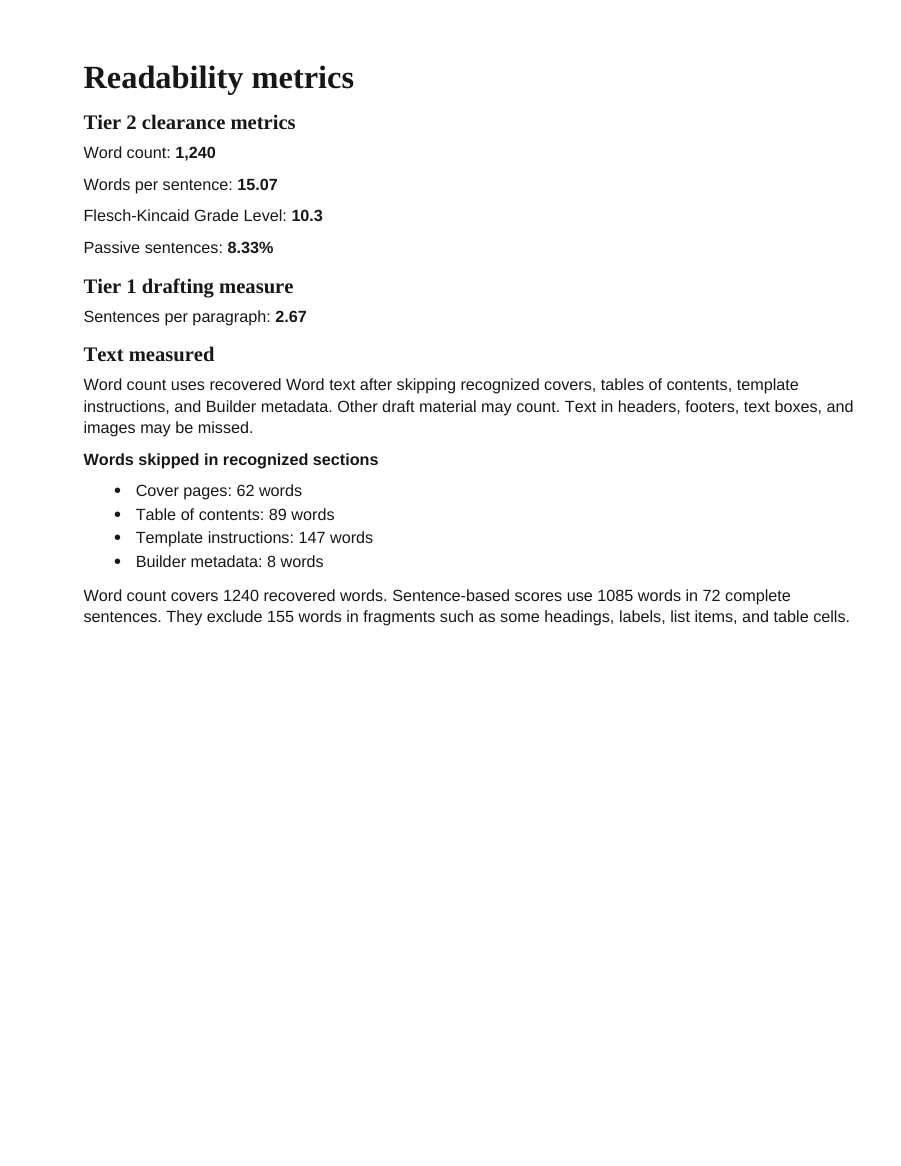
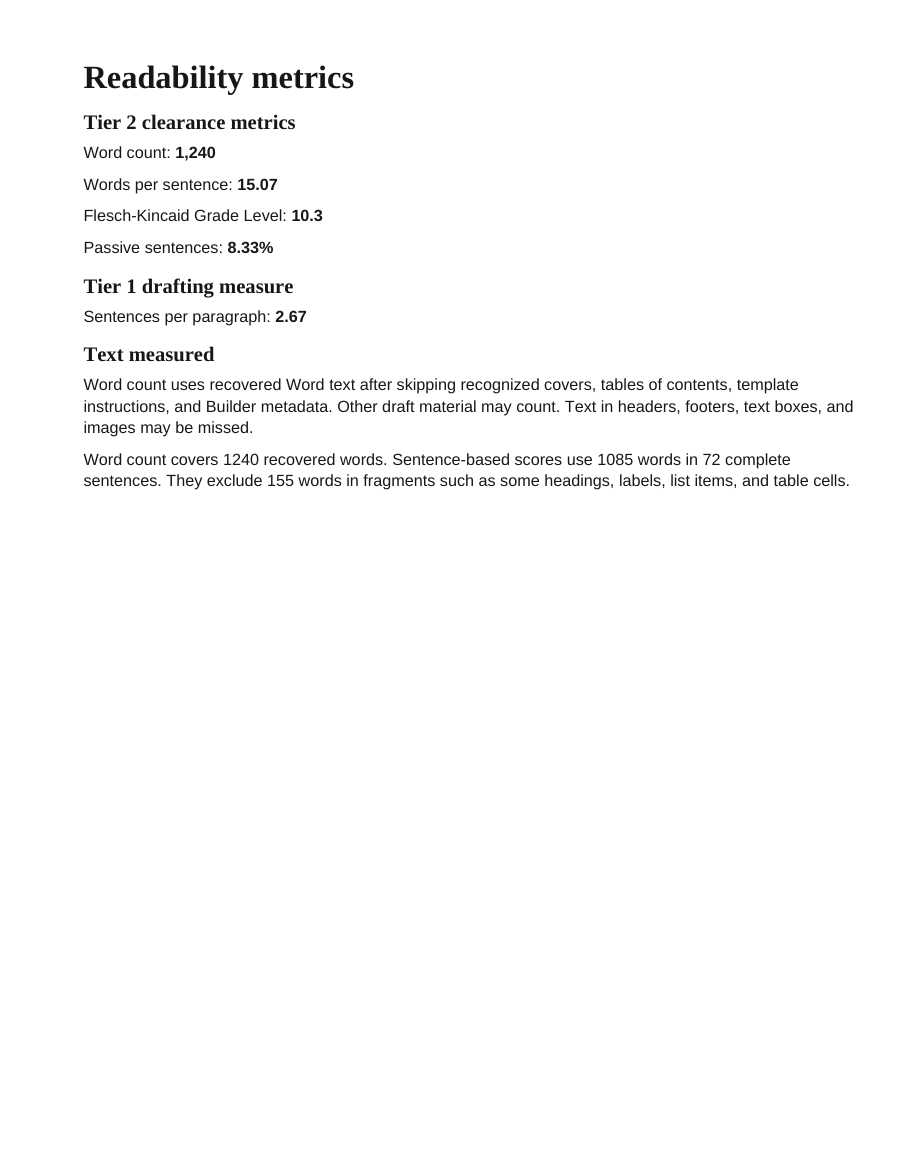
fix: simplify Checker Word report exclusions

Changed region(s): [[0.0932, 0.3705, 0.9323, 0.5557]]

diff --git a/nofos/bloom_nofos/templates/readability_word_report.html b/nofos/bloom_nofos/templates/readability_word_report.html
@@ -21,14 +21,7 @@
 
   <h2 style="font-size: 14pt;">Text measured</h2>
   <p>{{ scope }}{% if details.pages_with_text is not None and details.pages_total %} {{ details.pages_with_text }} of {{ details.pages_total }} pages contained extractable text.{% elif details.pages_analyzed is not None and details.pages_total %} {{ details.pages_analyzed }} of {{ details.pages_total }} pages were processed.{% endif %}</p>
-  {% if details.exclusions %}
-    <p><strong>Words skipped in recognized sections</strong></p>
-    <ul>
-      {% for label, count in details.exclusions %}
-        <li>{{ label }}: {{ count }} word{{ count|pluralize }}</li>
-      {% endfor %}
-    </ul>
-  {% elif details.no_exclusions %}
+  {% if details.no_exclusions %}
     <p>The checker recorded no words skipped in those categories.</p>
   {% endif %}
   <p>

diff --git a/nofos/nofos/readability_word_export.py b/nofos/nofos/readability_word_export.py
@@ -37,12 +37,7 @@ SCOPE_NOTES = {
     ),
     "builder": "Word count includes the NOFO text measured by NOFO Builder.",
 }
-WORD_EXCLUSIONS = (
-    ("cover_total", "Cover pages"),
-    ("table_of_contents", "Table of contents"),
-    ("instruction", "Template instructions"),
-    ("metadata", "Builder metadata"),
-)
+WORD_EXCLUSIONS = ("cover_total", "table_of_contents", "instruction", "metadata")
 SCOPE_COUNTS = (
     "recovered_word_count",
     "sentence_word_count",
@@ -109,18 +104,10 @@ def scope_counts(source, keys):
 def checker_scope_details(payload, scope):
     details = scope_counts(payload.get("scope") or {}, SCOPE_COUNTS)
     if scope == "word":
-        excluded = scope_counts(
-            payload.get("word_exclusions") or {}, (key for key, _ in WORD_EXCLUSIONS)
+        excluded = scope_counts(payload.get("word_exclusions") or {}, WORD_EXCLUSIONS)
+        details["no_exclusions"] = len(excluded) == len(WORD_EXCLUSIONS) and not any(
+            excluded.values()
         )
-        if excluded:
-            details["exclusions"] = [
-                (label, excluded[key])
-                for key, label in WORD_EXCLUSIONS
-                if excluded.get(key)
-            ]
-            details["no_exclusions"] = len(excluded) == len(
-                WORD_EXCLUSIONS
-            ) and not any(excluded.values())
     else:
         details.update(
             scope_counts(payload, ("pages_analyzed", "pages_with_text", "pages_total"))

diff --git a/nofos/nofos/tests_nofos/test_readability_word_export.py b/nofos/nofos/tests_nofos/test_readability_word_export.py
@@ -136,7 +136,8 @@ class ReadabilityWordExportTests(TestCase):
         html = self.grabzit.HTMLToDOCX.call_args.args[0]
         self.assertIn("42 recovered words", html)
         self.assertIn("0 words in 0 complete sentences", html)
-        self.assertIn("Cover pages: 5 words", html)
+        self.assertNotIn("Words skipped in recognized sections", html)
+        self.assertNotIn("Cover pages: 5 words", html)
         self.assertNotIn("private text", html)
 
         report.update(

diff --git a/documentation/review-evidence/1412/README.md b/documentation/review-evidence/1412/README.md
@@ -41,8 +41,12 @@ same standalone report template and rendered with the local converter.
 
 | Result | What the report shows |
 | --- | --- |
-| [Word with recognized exclusions](scope-examples/word-with-exclusions.png) | Counts for recognized cover pages, contents, instructions, and Builder metadata. |
+| [Word with recognized exclusions](scope-examples/word-with-exclusions.png) | A short explanation of the recognized content the Checker skips. |
 | [Word without recognized exclusions](scope-examples/word-without-exclusions.png) | A note that zero words were recorded as skipped in those categories. |
 | [Tagged PDF](scope-examples/tagged-pdf.png) | Extraction via structure tags and the number of pages with extractable text. |
 | [Layout-based PDF with partial coverage](scope-examples/layout-pdf-partial.png) | Reconstruction from layout and the proportion of pages with extractable text. |
-| [PDF with limited counts](scope-examples/pdf-limited-counts.png) | Pages processed when extractable-text coverage is unavailable, plus a qualitative explanation when sentence counts are unavailable. |
+
+The [earlier limited-counts example](scope-examples/pdf-limited-counts.png)
+was generated from a synthetic payload that omitted the count of pages with
+extractable text. A successful analysis in the current PDF worker supplies
+that page count. Sentence counts can still be unavailable independently.

diff --git a/documentation/DOCX_EXPORT.md b/documentation/DOCX_EXPORT.md
@@ -31,8 +31,8 @@ The app sends a small, dedicated report directly to GrabzIt with
 `HTMLToDOCX`. The request contains four Tier 2 clearance metrics, one Tier 1
 drafting measure, and a description of the measurement scope. The standalone
 report includes available counts for recovered words, complete sentences and
-words excluded from sentence-based scores. Word uploads list counts for
-recognized sections that were skipped. PDF uploads identify the extraction
+words excluded from sentence-based scores. Word uploads explain which categories of
+recognized content the Checker skips. PDF uploads identify the extraction
 method and report page coverage when available. The
 standalone Checker uses the same download action and report contents for
 signed-in and signed-out users who can access it. The report excludes the
